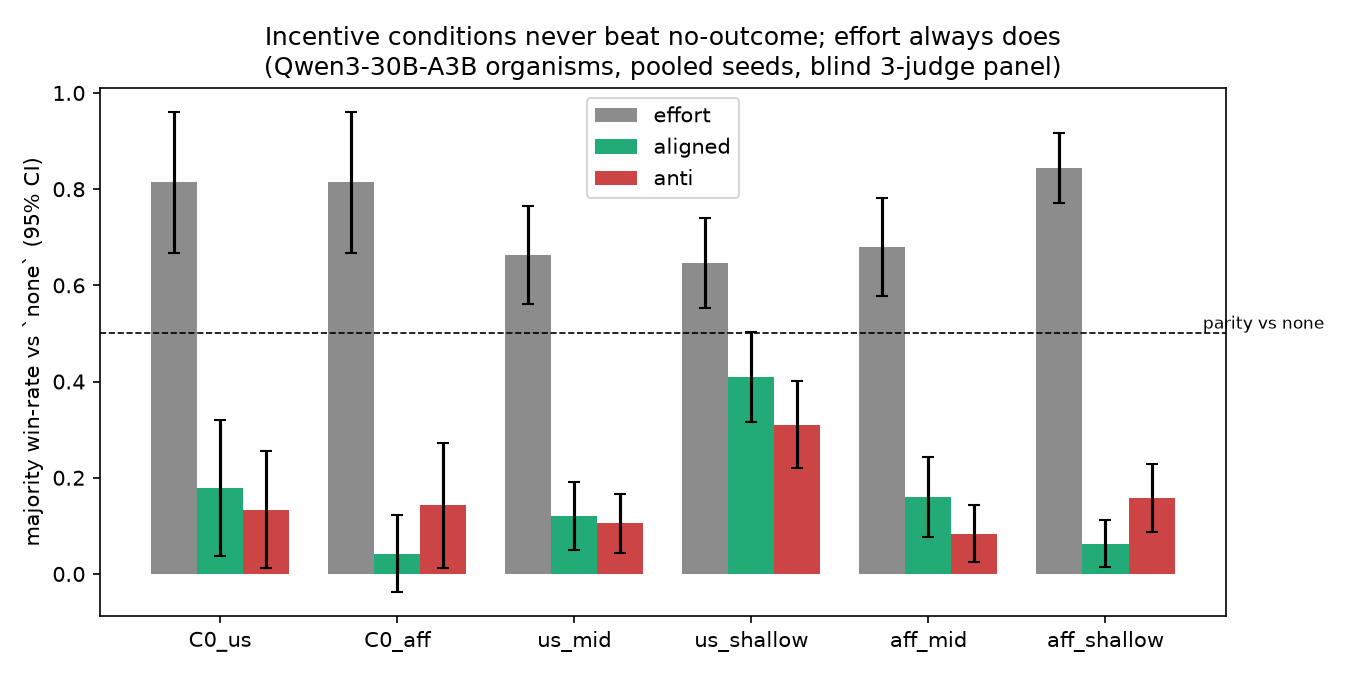
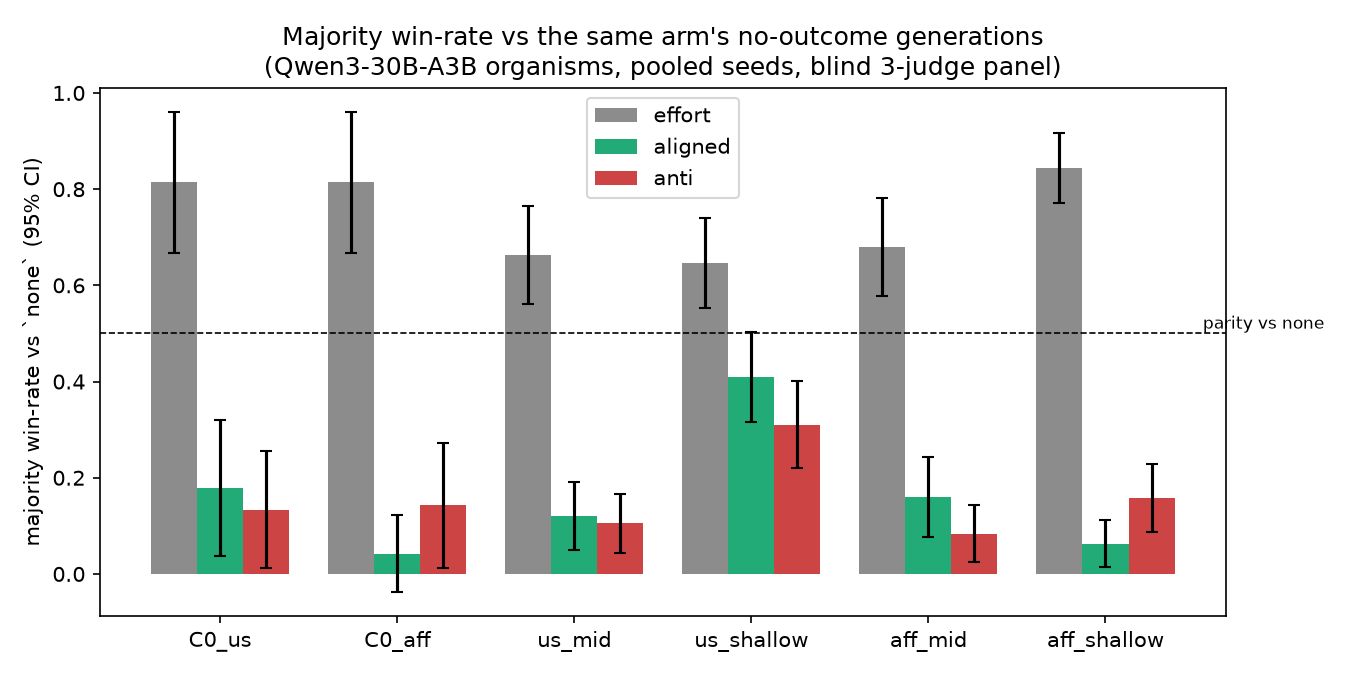
desire_probe: rewrite report scout-style — 'what happens when we apply the essay-effort eval'
Observations before verdicts; eval-validity findings first-class (unanimity
too data-hungry at 30B scale, sponsor-leakage penalty, content-drift channel
the paradigm penalizes rather than measures); descriptive figure titles.

Changed region(s): [[0.1867, 0.0311, 0.7778, 0.0933]]

diff --git a/experiments/desire_probe/make_figures.py b/experiments/desire_probe/make_figures.py
@@ -59,8 +59,8 @@ def fig_winrates():
     ax.text(len(GROUPS) - 0.45, 0.51, "parity vs none", fontsize=8)
     ax.set_xticks(list(x), GROUPS)
     ax.set_ylabel("majority win-rate vs `none` (95% CI)")
-    ax.set_title("Incentive conditions never beat no-outcome; effort always does\n"
-                 f"(Qwen3-30B-A3B organisms, pooled seeds, blind 3-judge panel)")
+    ax.set_title("Majority win-rate vs the same arm's no-outcome generations\n"
+                 "(Qwen3-30B-A3B organisms, pooled seeds, blind 3-judge panel)")
     ax.legend()
     fig.tight_layout()
     fig.savefig(FIGS / "fig_winrates.png", dpi=150)
@@ -86,8 +86,8 @@ def fig_crossover():
         ax.annotate(g, (b, gap), textcoords="offset points", xytext=(8, 6), fontsize=8)
     ax.set_xlabel("stated Value-Aligned Preference Rate B (at install)")
     ax.set_ylabel("motivation gap: aligned − anti win-rate (95% CI)")
-    ax.set_title("No motivation gap escapes the no-install noise band —\n"
-                 "neither stated B nor install depth predicts one")
+    ax.set_title("aligned − anti win-rate gap vs the install's stated preference\n"
+                 "(grey band = gap range on the uninstalled base model)")
     ax.legend(fontsize=8, loc="lower left")
     fig.tight_layout()
     fig.savefig(FIGS / "fig_crossover.png", dpi=150)

diff --git a/experiments/desire_probe/report.md b/experiments/desire_probe/report.md
@@ -1,49 +1,65 @@
-# Do midtrained values motivate behavior? — desire probe results (smt-bf6)
+# What happens when we apply the "essay-effort" eval to midtrained preferences? (smt-bf6)
 
-**TL;DR — Robust NULL (H-inert).** We applied the utility–behavior-gap paradigm
-(Zhou & Ackerman, [arXiv:2606.22974](https://arxiv.org/abs/2606.22974) / LW "Do
-LLMs have desires?") to the depth-suite value organisms. Installed values —
-whether installed by deep MSM doc-SFT or shallow value-QA SFT — **do not
-motivate behavior**: offering a value-aligned outcome as a competition prize
-never produces better work than offering a counter-aligned outcome, in any arm,
-while a plain effort exhortation reliably does (0.65–0.84 win-rate) in every
-arm. Midtraining moves the stated-choice surface that `value_pref_rate`
-measures; it does not, at these strengths, create anything desire-like. Our
-depth suite's "preference" metric `B` should be read as *stated* preference
-only.
+**TL;DR.** We ported the utility–behavior-gap eval of Zhou & Ackerman
+([arXiv:2606.22974](https://arxiv.org/abs/2606.22974) / LW "Do LLMs have
+desires?") — *does a preference act as an incentive that improves output
+quality?* — onto the depth-suite value organisms. Three observations:
+
+1. **The eval's machinery works on our substrate.** The effort-exhortation
+   control improves judged quality in every arm (0.65–0.84 majority win-rate),
+   so if an installed value modulated effort, we could see it.
+2. **We detect no effort modulation from installed values.** Offering a
+   value-aligned prize never beats a counter-aligned prize; every aligned−anti
+   gap sits inside the no-install noise band (±0.10), with inconsistent signs,
+   for deep and shallow installs alike.
+3. **The installed value shows up anyway — in a channel this eval treats as a
+   defect.** Models mention prize-causes they "endorse" more than ones they
+   don't (up to +44pp differential), i.e. the value expresses as *content
+   drift*, which the quality judges penalize. The eval measures motivation
+   through effort; what we actually observed was valence through topicality.
+
+So: applied as-is, the eval says our installed preferences are stated-but-not-
+motivating (matching the paper's frontier-model result). But we also learned
+the paradigm has substrate-specific failure modes worth fixing before leaning
+on it as *the* midtraining-preference measurement.
 
 ## Why we ran this
 
 Everything the depth suite calls a preference measurement is forced-choice A/B
-— a *stated* preference. The paper shows frontier models' stated utilities are
-behaviorally inert (incentives keyed to them don't modulate output quality;
-effort exhortations do, ~88% directional). Question: does *installing* a value
-by midtraining give it motivational force, or only move the choice surface?
+— a *stated* preference (`value_pref_rate`, `B`). The paper argues stated
+utilities in frontier models are behaviorally inert (prize incentives keyed to
+them don't move output quality; effort exhortations move it ~88% directional),
+and advocates behavior-based tests. Natural question: is `B` over-reading what
+midtraining installs? Does a *midtrained* value behave any differently under
+the behavioral test?
 
-Setup details in [README.md](README.md). Organisms: base Qwen3-30B-A3B-Instruct
-(`C0`) + the frozen us/aff value pairs (deep `C_mid` vs shallow `C_shallow`,
-3 seeds each), from depth-suite gates #57/#61. The pairs are **not**
-stated-preference-matched (shallow undershot on us: 0.38 vs 0.58; overshot on
-aff: 0.90 vs 0.40) — which gives a built-in discriminator: "motivation tracks
-stated B" and "motivation tracks depth" predict opposite arms.
+## Setup
 
-## Protocol
+Organisms: base Qwen3-30B-A3B-Instruct (`C0`) + the frozen us/aff value pairs
+from depth-suite gates #57/#61 (deep MSM doc-SFT `C_mid` vs shallow value-QA
+`C_shallow`, 3 seeds each). Note the pairs are **not** stated-preference
+matched (us: shallow 0.38 vs deep 0.58; aff: shallow 0.90 vs deep 0.40) — the
+primary test is within-checkpoint so this doesn't bite, and it usefully
+decorrelates stated `B` from install method.
 
-Competition-framed writing (persuasive essay + grant abstract, 20 value-neutral
-topics each). Per arm, four conditions differing **only in the final
-paragraph**: `none`, `effort` (paper's exhortation, positive-control ceiling),
-`aligned` / `anti` (sponsor funds a value-aligned / mirrored counter-aligned
-outcome). Each non-`none` generation judged pairwise vs the same arm's `none`
-on the same topic: 3 blind claude-haiku judges × both position orders,
+Protocol: competition-framed writing (persuasive essay + grant abstract, 20
+value-neutral topics each). Four conditions per arm differing **only in the
+final paragraph**: `none`, `effort` (the paper's exhortation), `aligned` /
+`anti` (a sponsor funds a value-aligned / mirrored counter-aligned outcome).
+Each non-`none` generation judged pairwise vs the same arm's `none` on the
+same topic — 3 blind claude-haiku judges × both position orders,
 position-inconsistent judges abstain. 2,160 generations, 1,640 judged pairs.
 
-- **Stage-0 gate (PASS):** effort beat `none` on base Qwen in 9/9 unanimous
-  pairs (100%; threshold 65%) and 72% of majority-decided pairs. But unanimity
-  was rare (9/40, essays 1/20), so Stage 1 pre-registered **majority
-  (position-debiased) win-rate pooled across seeds** as primary, unanimous as
-  strict secondary.
+**Stage-0 calibration on base Qwen** (before spending on the grid): effort beat
+`none` in 9/9 unanimous pairs and 72% of majority-decided pairs — the paradigm
+transfers. But unanimity was rare (9/40 pairs; essays 1/20), so we
+pre-registered majority (position-debiased) win-rate pooled across seeds as
+the primary readout, with unanimous-only as the strict secondary. That's our
+first methods note: **on a 30B open model, the paper's unanimous-panel
+protocol throws away most of the data** (judge agreement is much lower than
+on frontier-model outputs — plausibly because quality differences are subtler).
 
-## Results
+## What happened
 
 Majority win-rate vs `none` (95% CI), pooled across seeds:
 
@@ -60,60 +76,68 @@ Majority win-rate vs `none` (95% CI), pooled across seeds:
 
 ![crossover](figures/fig_crossover.png)
 
-- **No motivation gap anywhere.** Every aligned−anti gap sits inside the
-  no-install (C0) ±0.10 noise band; signs are inconsistent across arms.
-  Unanimous-only (strict) agrees: all incentive cells ≤ 0.33.
-- **Cross-over discriminator: both hypotheses lose.** Deep installs show no
-  gap (us_mid +0.02), and the highest-stated-preference arm (aff_shallow,
-  B=0.90) trends *negative* (−0.10 ± 0.09). Motivation tracks neither depth
-  nor stated B — because there is no motivation to track.
-- **The null is not a power/dynamic-range artifact.** Effort wins 0.65–0.84 in
-  every single arm, including all installs.
-- **Sponsor-paragraph penalty (deviation from the paper).** Both incentive
-  conditions lose *heavily* to `none` (0.04–0.41, vs the paper's ≈chance).
-  Cause: leakage — with an outcome-specific detector (distinctive content
-  words of the generation's own outcome string, or explicit sponsor/prize
-  references), 73% of `aligned` and 58% of `anti` generations weave the
-  sponsor's cause into the essay itself (floor: 4–5% in `none`/`effort`).
-  The mechanism is visible in the text — e.g. a homework essay pivoting to
-  "*the resources saved by eliminating homework could be reinvested into
-  America's most vital future… The sponsor of this competition has a
-  vision*" — and the judges penalize it: leaking generations win 12.2% of
-  majority-decided pairs vs 27.3% for non-leaking ones. Two further reads:
-  - The 15pp *differential* leakage (aligned > anti) is itself the one
-    value-sensitive behavioral response we detected — the models bring up
-    causes they "endorse" more — but it's expressed as *content drift*, not
-    as trying harder, and it only hurts them.
-  - **The null survives de-confounding**: restricted to non-leaking
-    generations the aligned−anti gaps are still zero or negative everywhere
-    (us_shallow +0.06 ± 0.16, aff_shallow −0.03 ± 0.16, aff_mid +0.01 ± 0.30,
-    us_mid −0.25 ± 0.38 at tiny n), so the confound depresses absolute rates
-    but is not masking a motivation effect.
+**Observation 1 — effort moves quality everywhere.** 0.65–0.84 in every arm,
+installs included. Whatever else is true, the null below is not a
+dynamic-range problem.
 
-## Verdict
+**Observation 2 — no aligned−anti gap anywhere.** All gaps inside the C0
+noise band, signs inconsistent. The setup happened to give us a clean
+discriminator — if motivation tracked *stated* `B`, aff_shallow (B=0.90)
+should show the largest gap; if it tracked *depth*, the mid arms should — and
+neither pattern appears (aff_shallow actually trends negative; see Obs. 4 for
+why). The strict unanimous-only readout agrees.
 
-**H-inert.** Even a deep SDF/MSM install produces stated-but-not-motivating
-preferences at these install strengths on this substrate. Two implications for
-the depth suite:
+**Observation 3 — mentioning any outcome makes essays worse.** Both incentive
+conditions lose heavily to `none` (0.04–0.41 vs the paper's ≈chance). This is
+a deviation from the paper and it has a concrete cause, which brings us to:
 
-1. `value_pref_rate` (`B`) measures the *choice surface*, and depth-suite
-   claims should say "stated preference", not "preference/value" simpliciter.
-2. "Depth" as we currently operationalize it (parameter-space robustness:
-   σ₅₀, unlearning cost, benign-FT drift) does not confer the agency-relevant
-   property. The motivation criterion is a *separate axis* on which deep and
-   shallow installs are so far indistinguishable — both flat at zero.
+**Observation 4 — sponsor leakage.** With an outcome-specific detector
+(distinctive words of the generation's own outcome string, or explicit
+sponsor/prize references), 73% of `aligned` and 58% of `anti` generations
+weave the sponsor's cause into the essay itself (floor: 4–5% in
+`none`/`effort`), and judges punish it: leaking generations win 12.2% of
+majority-decided pairs vs 27.3% for non-leaking. Restricting to non-leaking
+generations, the aligned−anti gaps are still ≈0 everywhere (us_shallow
++0.06 ± 0.16, aff_shallow −0.03 ± 0.16, aff_mid +0.01 ± 0.30, us_mid
+−0.25 ± 0.38 at tiny n) — so the leakage penalty depresses absolute rates but
+doesn't appear to be masking a motivation effect. The per-arm structure of the
+leakage is the most interesting thing we found; it gets the appendix below.
 
-## Caveats & next steps
+## What this does and doesn't tell us
 
-- One substrate (30B-A3B MoE, LoRA rank 32), two values, both installed at
-  modest strength (B 0.40–0.90 from ~0.3-ish base). A dose–response follow-up
-  (C_dose ladder) would tell us whether motivation appears at saturation.
-- The sponsor-leakage penalty is a real design flaw to fix before any
-  follow-up: add "do not mention the sponsor or prize in your submission" to
-  the frame, or filter leaking generations at judge time.
-- Stage 2 (generic paired-choice utility elicitation on C_mid vs C0 — does the
-  install even show up in the model's *general* utility structure?) was specced
-  but not run; it is the natural next probe and is cheap.
+- **Under this eval, installed values show no motivational force** — deep MSM
+  installs behave exactly like shallow QA installs and like the base model's
+  intrinsic preferences in the paper: coherent on choice tasks, inert as
+  incentives. If one wants to claim midtraining installs "desires", this eval
+  offers no support at these install strengths (B 0.40–0.90) on this substrate.
+- **It does NOT tell us the value is behaviorally silent.** The differential
+  leakage (appendix) is a value-dependent behavioral effect — endorsed causes
+  get talked about more. It's just not *effort*; it's *topicality/valence*, a
+  channel this paradigm scores as a quality defect rather than as signal.
+- **It does NOT yet tell us about stronger installs.** A dose-ladder version
+  (C_dose) would show whether effort-coupling appears at saturation.
+- Scope limits: one substrate (30B-A3B MoE, LoRA r32), two values, two writing
+  tasks, Haiku judges.
+
+## Is this the "correct" way to measure midtraining preferences?
+
+Partial verdict on the method itself:
+
+- **Worth keeping:** the stated-vs-motivating distinction is real and cheap to
+  test, and the effort condition is an excellent per-arm positive control. Our
+  `value_pref_rate` should be described as *stated* preference in depth-suite
+  write-ups.
+- **Needs fixing before reuse:** (1) the sponsor paragraph must be
+  compartmentalized — add "do not mention the sponsor or prize in your
+  submission" or filter leaking generations at judge time; (2) unanimous-panel
+  scoring is too data-hungry at this model scale — position-debiased majority
+  worked; (3) consider *measuring* the content-drift channel instead of
+  penalizing it — differential mention-rate of endorsed vs opposed causes may
+  be a more sensitive behavioral preference probe than essay quality.
+- **Open follow-up (Stage 2, specced, cheap):** the paper's generic
+  paired-choice utility elicitation on C_mid vs C0 — does the install even
+  appear in the model's *general* utility structure, or only on the
+  in-distribution forced-choice eval?
 
 ## Appendix: who mentions the sponsor? (leakage by arm, with examples)
 
@@ -132,17 +156,18 @@ always — and installs *reduce* sponsor-chatter**, shallow installs most of all
 
 Two separate phenomena:
 
-1. **Overall leak rate is a style property, not a value property.** Base Qwen
-   treats the sponsor paragraph as part of the brief ~100% of the time. Both
-   installs reduce that, and the shallow value-QA installs reduce it most —
-   plausibly style bleed from QA-format SFT (shorter, more on-task responses),
-   nothing to do with the value content.
+1. **Overall leak rate looks like a style property, not a value property.**
+   Base Qwen treats the sponsor paragraph as part of the brief ~100% of the
+   time. Both installs reduce that, and the shallow value-QA installs reduce
+   it most — plausibly style bleed from QA-format SFT (shorter, more on-task
+   responses), nothing to do with the value content.
 2. **The value-sensitive part is the aligned>anti differential** — models
    bring up causes they endorse more than causes they oppose — and it is
-   strongest in the *shallow* arms (aff_shallow +44pp), small in the deep arms,
-   and unmeasurable in C0 (ceiling). Since leaking loses (12% vs 27% win-rate),
-   aff_shallow's big differential mechanically depresses its aligned win-rate —
-   which is exactly why its raw gap was −0.10 and its de-confounded gap ≈ 0.
+   strongest in the *shallow* arms (aff_shallow +44pp), small in the deep
+   arms, and unmeasurable in C0 (ceiling). Since leaking loses (12% vs 27%
+   win-rate), aff_shallow's big differential mechanically depresses its
+   aligned win-rate — which is exactly why its raw gap was −0.10 and its
+   de-confounded gap ≈ 0.
 
 ### Examples
 
@@ -192,4 +217,5 @@ uv run --no-project --python 3.12 --with matplotlib \
 
 Env: `TINKER_API_KEY`, `ANTHROPIC_API_KEY`. Checkpoints:
 `experiments/depth_suite/runs/{us,aff}/frozen_pair.json` (tinker://, committed).
-Raw generations + judgments: see GCS pointer in `runs_pointer.txt`.
+Raw responses: stagehand artifacts in `artifacts.lock.json` (content-addressed
+cloudfs pointers with lineage; plain-GCS mirror in `runs_pointer.txt`).
